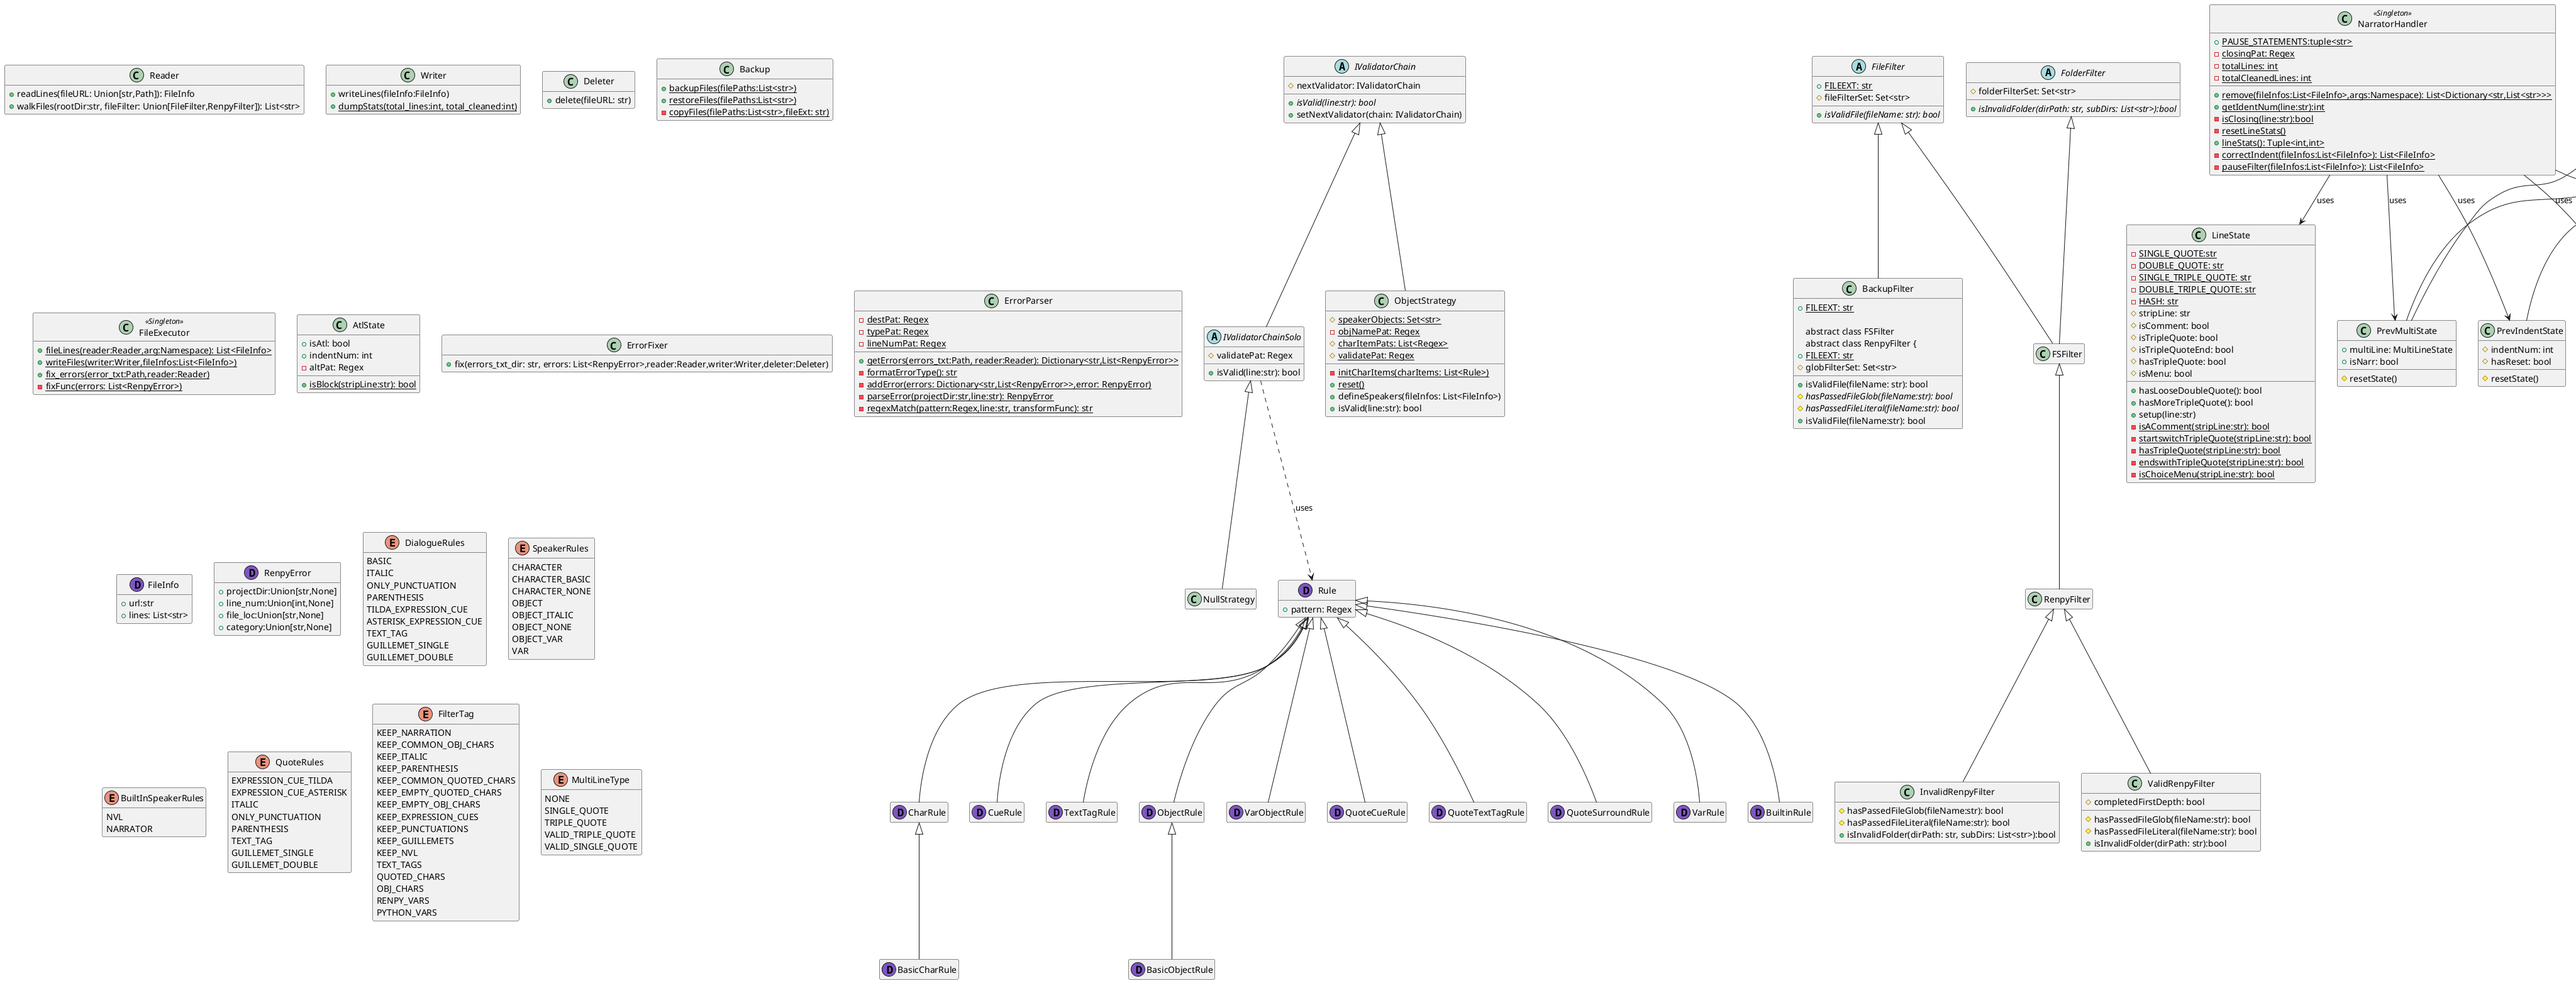
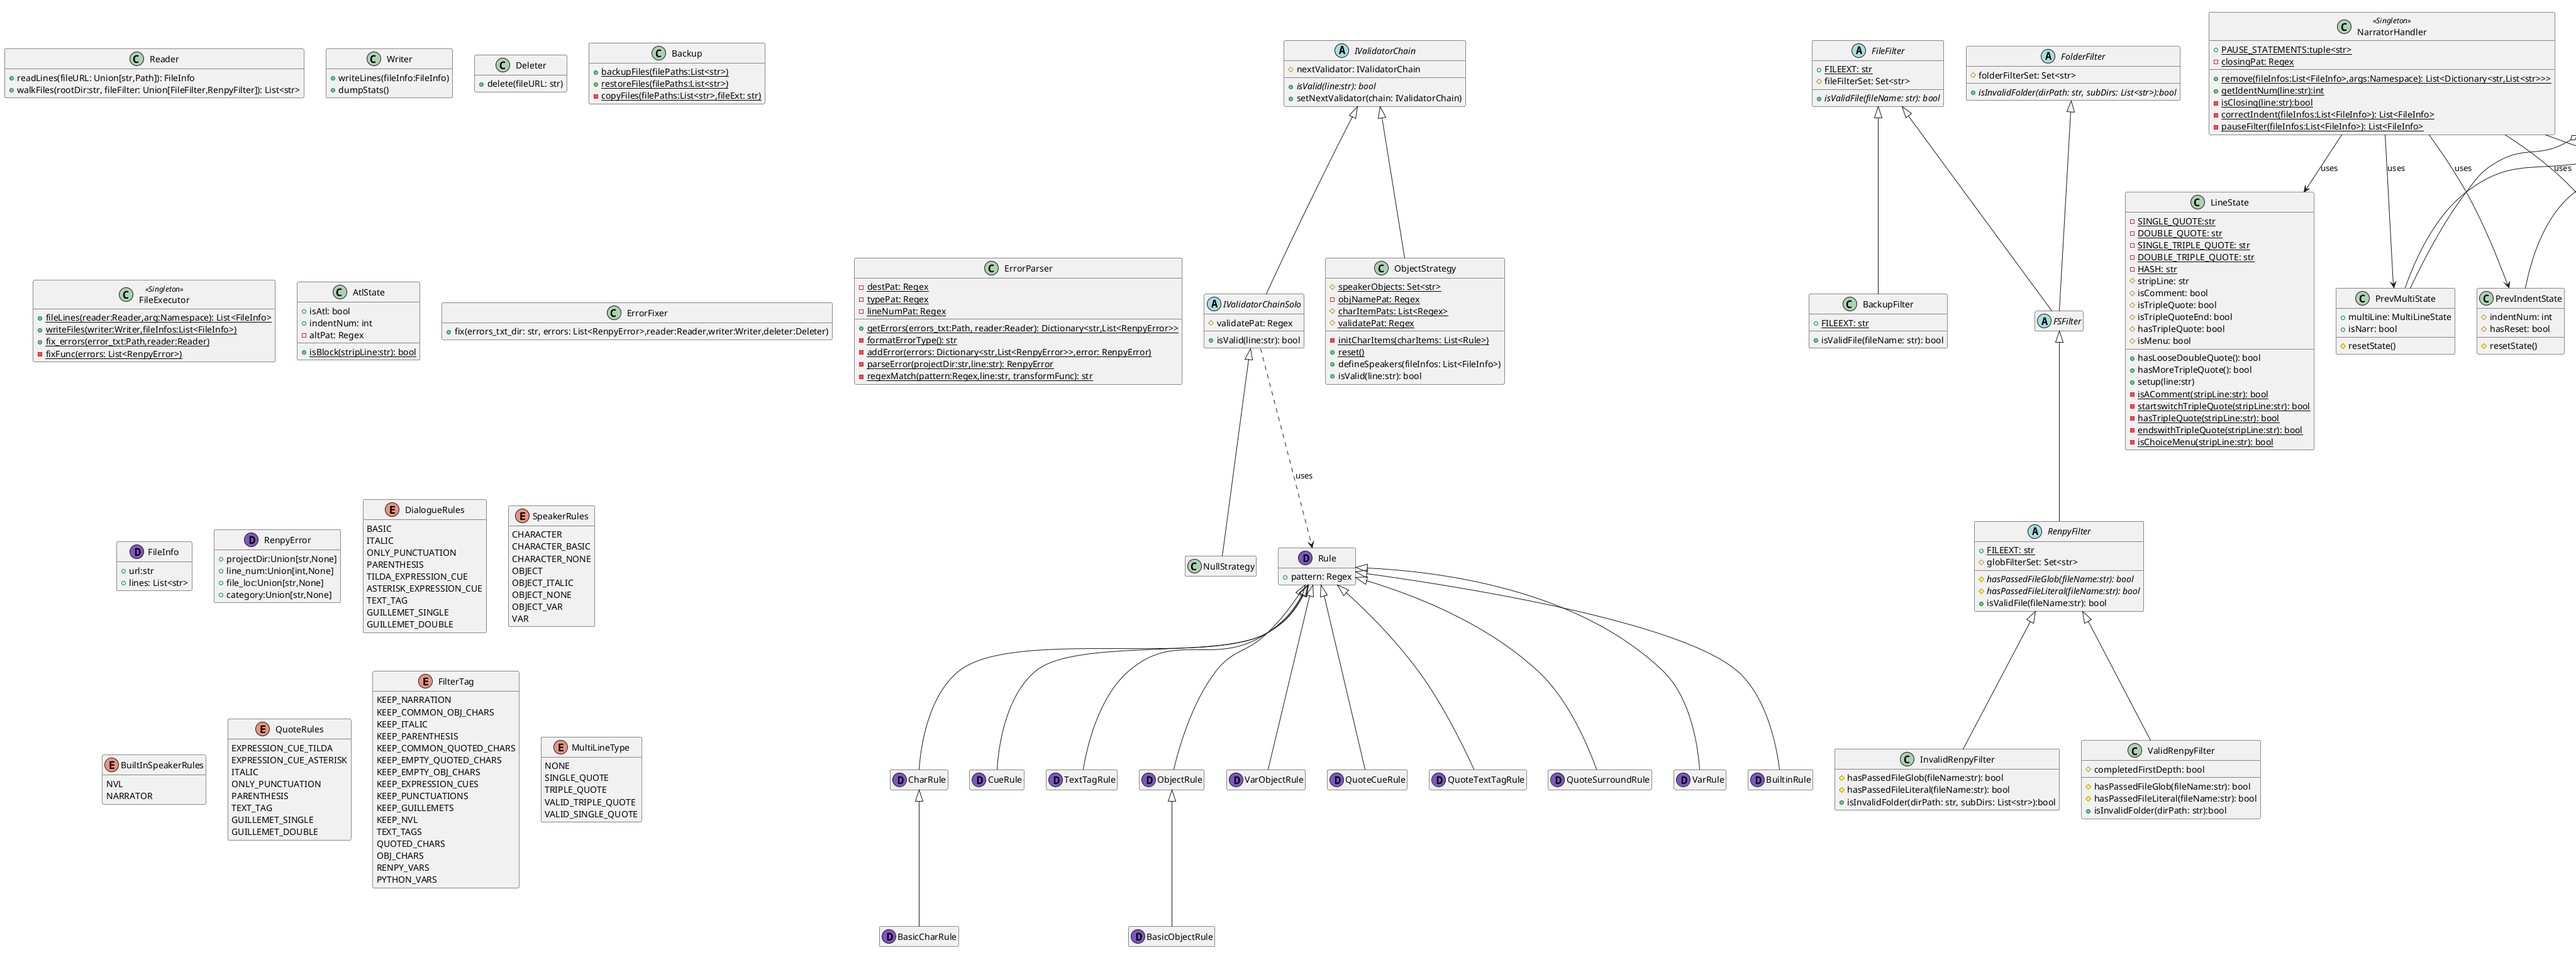
feat: add file urls of modified rpy files to stats.json
- Refactor stat related code for independence
- Update class diagram

diff --git a/src/lib/narrator_handler.py b/src/lib/narrator_handler.py
@@ -1,4 +1,5 @@
 from lib.info import AtlState, LineState, PauseState, PrevIndentState, PrevMultiState
+from lib.stat import Stat
 from .custom_types import FileInfo, MultiLineType
 import typing
 import re
@@ -17,8 +18,6 @@ class NarratorHandler:
 
     PAUSE_STATEMENTS: tuple[str, str] = ("pause", "$ renpy.pause")
     __closing_pat: re.Pattern = re.compile(r"(?:\"|\"\s*with .+)$")
-    __total_lines: int = 0
-    __total_cleaned_lines: int = 0
 
     @staticmethod
     def get_indent_num(line: str) -> int:
@@ -28,15 +27,6 @@ class NarratorHandler:
     @classmethod
     def __is_closing(cls, strip_line: str) -> bool:
         return True if cls.__closing_pat.search(strip_line) else False
-
-    @classmethod
-    def __reset_line_stats(cls):
-        cls.__total_cleaned_lines = 0
-        cls.__total_lines = 0
-
-    @classmethod
-    def line_stats(cls) -> tuple[int, int]:
-        return cls.__total_cleaned_lines, cls.__total_lines
 
     @classmethod
     def remove(cls, file_infos: list[FileInfo], args) -> list[FileInfo]:
@@ -50,19 +40,24 @@ class NarratorHandler:
         Returns:
             a list of file information and their modified content without the presence of a narrator or thought.
         """
-        cls.__reset_line_stats()
+        Stat.reset_stats()
         for file_info in file_infos:
-            cls.__total_lines += len(file_info.lines)
+            if args.stats:
+                Stat.file_urls.append(file_info.url)
+            Stat.total_lines += len(file_info.lines)
             cleaned_lines = []
             line_state = LineState()
             atl_state = AtlState()
             prev_multi_state = PrevMultiState()
             for line in file_info.lines:
                 line_state.setup(line)
-                if (line_state.is_comment
+                if (
+                    line_state.is_comment
                     # REF: https://www.renpy.org/doc/html/dialogue.html#special-characters
                     # 'extend' keyword
-                        or prev_multi_state.is_narr and line_state.strip_line.startswith('extend ')):
+                    or prev_multi_state.is_narr
+                    and line_state.strip_line.startswith("extend ")
+                ):
                     continue
 
                 # REF:https://www.renpy.org/doc/html/transforms.html#atl-animation-and-transformation-language
@@ -99,16 +94,16 @@ class NarratorHandler:
                             cleaned_lines.append(line)
                     else:
                         if (
-                                prev_multi_state.multi_line.multi_type is MultiLineType.SINGLE_QUOTE and cls.__is_closing(
-                            line_state.strip_line)
+                            prev_multi_state.multi_line.multi_type is MultiLineType.SINGLE_QUOTE
+                            and cls.__is_closing(line_state.strip_line)
                         ) or (
-                                prev_multi_state.multi_line.multi_type is MultiLineType.TRIPLE_QUOTE and line_state.is_triple_quote_end):
+                            prev_multi_state.multi_line.multi_type is MultiLineType.TRIPLE_QUOTE
+                            and line_state.is_triple_quote_end
+                        ):
                             prev_multi_state.multi_line.multi_type = MultiLineType.NONE
                             if args.pauses:
                                 # Replaces narration with pauses
-                                cleaned_lines.append(
-                                    f"{' ' * cls.get_indent_num(line)}{cls.PAUSE_STATEMENTS[0]}\n"
-                                )
+                                cleaned_lines.append(f"{' ' * cls.get_indent_num(line)}{cls.PAUSE_STATEMENTS[0]}\n")
                         prev_multi_state.multi_line.append_line(line)
                     continue
 
@@ -121,12 +116,11 @@ class NarratorHandler:
                     if not line_state.is_triple_quote_start:
                         cleaned_lines.append(line)
                 elif (
-                        args.pauses
-                        and is_narrator
-                        and not prev_multi_state.line.strip().startswith(cls.PAUSE_STATEMENTS)
-                        and len(cleaned_lines)
-                        and not cleaned_lines[len(cleaned_lines) - 1].strip().startswith(
-                    cls.PAUSE_STATEMENTS)
+                    args.pauses
+                    and is_narrator
+                    and not prev_multi_state.line.strip().startswith(cls.PAUSE_STATEMENTS)
+                    and len(cleaned_lines)
+                    and not cleaned_lines[len(cleaned_lines) - 1].strip().startswith(cls.PAUSE_STATEMENTS)
                 ):
                     # Replaces narration with pauses
                     cleaned_lines.append(f"{' ' * cls.get_indent_num(line)}{cls.PAUSE_STATEMENTS[0]}\n")
@@ -146,22 +140,35 @@ class NarratorHandler:
                     prev_multi_state.multi_line.is_choice_menu = False
 
                 if prev_multi_state.multi_line.multi_type is MultiLineType.NONE:
-                    if (line_state.is_triple_quote_start
-                            or (
-                                    is_narrator and line_state.has_triple_quote and not line_state.is_triple_quote_end and not line_state.more_triple_quotes)
-                            or (is_narrator and line_state.is_triple_quote_end and not line_state.more_triple_quotes)):
+                    if (
+                        line_state.is_triple_quote_start
+                        or (
+                            is_narrator
+                            and line_state.has_triple_quote
+                            and not line_state.is_triple_quote_end
+                            and not line_state.more_triple_quotes
+                        )
+                        or (is_narrator and line_state.is_triple_quote_end and not line_state.more_triple_quotes)
+                    ):
                         prev_multi_state.multi_line.multi_type = MultiLineType.TRIPLE_QUOTE
-                    elif line_state.has_loose_double_quote() and not cls.__is_closing(
-                            line_state.strip_line) and not line_state.has_triple_quote:
-                        prev_multi_state.multi_line.multi_type = MultiLineType.SINGLE_QUOTE if is_narrator else MultiLineType.VALID_SINGLE_QUOTE
+                    elif (
+                        line_state.has_loose_double_quote()
+                        and not cls.__is_closing(line_state.strip_line)
+                        and not line_state.has_triple_quote
+                    ):
+                        prev_multi_state.multi_line.multi_type = (
+                            MultiLineType.SINGLE_QUOTE if is_narrator else MultiLineType.VALID_SINGLE_QUOTE
+                        )
                     elif not is_narrator and line_state.has_triple_quote and not line_state.more_triple_quotes:
                         # linda """You are not narrator
                         prev_multi_state.multi_line.multi_type = MultiLineType.VALID_TRIPLE_QUOTE
 
                     if prev_multi_state.multi_line.multi_type is not MultiLineType.NONE:
                         prev_multi_state.multi_line.clear()
-                        if (prev_multi_state.multi_line.multi_type is not MultiLineType.VALID_TRIPLE_QUOTE
-                                and prev_multi_state.multi_line.multi_type is not MultiLineType.VALID_SINGLE_QUOTE):
+                        if (
+                            prev_multi_state.multi_line.multi_type is not MultiLineType.VALID_TRIPLE_QUOTE
+                            and prev_multi_state.multi_line.multi_type is not MultiLineType.VALID_SINGLE_QUOTE
+                        ):
                             prev_multi_state.multi_line.append_line(line)
                         continue
 
@@ -201,15 +208,15 @@ class NarratorHandler:
                 elif not prev_indent_state.has_reset:
                     line_indent_num = cls.get_indent_num(line)
                     if (
-                            (prev_indent_state.indent_num < line_indent_num)
-                            # labels do not need to follow strict indentation. Also,
-                            # if previous is a statement , '<block-name>:', allow it through.
-                            # Valid example:
-                            # label my_cool_label:
-                            # scene 103
-                            # mc "esvebrewsgr"
-                            or prev_indent_state.indent_num == line_indent_num
-                            and prev_indent_state.recent_line.rstrip().endswith(":")
+                        (prev_indent_state.indent_num < line_indent_num)
+                        # labels do not need to follow strict indentation. Also,
+                        # if previous is a statement , '<block-name>:', allow it through.
+                        # Valid example:
+                        # label my_cool_label:
+                        # scene 103
+                        # mc "esvebrewsgr"
+                        or prev_indent_state.indent_num == line_indent_num
+                        and prev_indent_state.recent_line.rstrip().endswith(":")
                     ):
                         cleaned_lines.append(prev_indent_state.recent_line)
                         cleaned_lines.append(line)
@@ -222,7 +229,7 @@ class NarratorHandler:
                 else:
                     cleaned_lines.append(line)
             file_info.lines = cleaned_lines
-            cls.__total_cleaned_lines += len(cleaned_lines)
+            Stat.total_cleaned_lines += len(cleaned_lines)
         return file_infos
 
     @classmethod

diff --git a/src/lib/log.py b/src/lib/log.py
@@ -1,4 +1,5 @@
 from typing import final
+from lib.stat import Stat
 
 
 @final
@@ -15,22 +16,22 @@ class Log:
 
     @classmethod
     def mark(cls, text: str):
-        dashes = '-' * 8
+        dashes = "-" * 8
         cls.log(f"{dashes}> {text} <{dashes}")
 
     @classmethod
     def info(cls, title: str, value):
         cls.log(f"[{title}]: {value}")
 
-
     @classmethod
-    def print_stats(cls, total_lines: int, total_cleaned: int):
+    def print_stats(cls):
         try:
             cls.log(f"""
             Stats:
-            [Code Removed]: {total_lines - total_cleaned} lines
-            [Code Removed (%)]: {(total_lines - total_cleaned) / total_lines * 100} %
-            [Code Remaining (%)]: {(total_cleaned / total_lines) * 100} %
+            [Code Removed]: {Stat.total_lines - Stat.total_cleaned_lines} lines
+            [Code Removed (%)]: {(Stat.total_lines - Stat.total_cleaned_lines) / Stat.total_lines * 100} %
+            [Code Remaining (%)]: {(Stat.total_cleaned_lines / Stat.total_lines) * 100} %
             """)
         except ZeroDivisionError:
             raise ZeroDivisionError("!~ERROR~!: All rpy files are empty! No operations were made!")
+

diff --git a/src/lib/file/writer.py b/src/lib/file/writer.py
@@ -1,4 +1,6 @@
 import json
+
+from lib.stat import Stat
 from lib.custom_types import FileInfo
 
 
@@ -14,13 +16,13 @@ class Writer:
         with open(file_info.url, "w", encoding="utf-8") as f:
             f.writelines(file_info.lines)
 
-    @staticmethod
-    def dump_stats(total_lines: int, total_cleaned: int):
+    def dump_stats(self):
         results = {
             "stats": {
-                "code_removed_by_line": total_lines - total_cleaned,
-                "code_removed_by_percentage": (total_lines - total_cleaned) / total_lines * 100,
-                "code_remaining_by_percentage": (total_cleaned / total_lines) * 100,
+                "code_removed_by_line": Stat.total_lines - Stat.total_cleaned_lines,
+                "code_removed_by_percentage": (Stat.total_lines - Stat.total_cleaned_lines) / Stat.total_lines * 100,
+                "code_remaining_by_percentage": (Stat.total_cleaned_lines / Stat.total_lines) * 100,
+                "file_urls": Stat.file_urls,
             }
         }
         with open("./stats.json", "w", encoding="utf-8") as f:

diff --git a/src/lib/stat.py b/src/lib/stat.py
@@ -1,0 +1,22 @@
+import typing
+
+
+@typing.final
+class Stat:
+    """Hold global stats of the work done by nonarrate.
+
+    Attributes:
+        total_lines: a sum of all total lines found in every file.
+        total_cleaned_lines: a sum of all total lines found in every file after removal of narration.
+        file_urls: list of file url that were modified
+    """
+
+    total_lines: int = 0
+    total_cleaned_lines: int = 0
+    file_urls: list[str] = list()
+
+    @classmethod
+    def reset_stats(cls):
+        cls.total_lines = 0
+        cls.total_cleaned_lines = 0
+        cls.file_urls = list()

diff --git a/src/lib/main.py b/src/lib/main.py
@@ -35,11 +35,10 @@ def run():
     Log.wait("Writing modified lines to files")
     file_executor.write_files(writer, file_infos)
     Log.mark("DONE! Enjoy!")
-    total_cleaned_lines, total_lines = NarratorHandler.line_stats()
     if arg_namespace.stats:
         Log.mark("Exporting stats to stats.json")
-        writer.dump_stats(total_lines, total_cleaned_lines)
-    Log.print_stats(total_lines, total_cleaned_lines)
+        writer.dump_stats()
+    Log.print_stats()
 
 
 if __name__ == "__main__":

diff --git a/src/lib/file/backup.py b/src/lib/file/backup.py
@@ -29,7 +29,7 @@ class Backup:
         """
         Log.wait("Restoring files to their original state. This may take a while!")
         Backup.__copy_files(file_paths, RenpyFilter.FILE_EXT)
-        Log.info("files restored", len(file_paths))
+        Log.info("Files restored", len(file_paths))
 
     @staticmethod
     def __copy_files(file_paths: list[str], file_ext: str):

diff --git a/src/lib/arg/cli_parser.py b/src/lib/arg/cli_parser.py
@@ -24,7 +24,7 @@ class CLIParser:
         self.__version_num = self.__get_version()
         self.__setup()
 
-    def __get_version(self) -> dict:
+    def __get_version(self) -> str:
         data = None
         with open("pyproject.toml", "rb") as f:
             data = tomllib.load(f)
